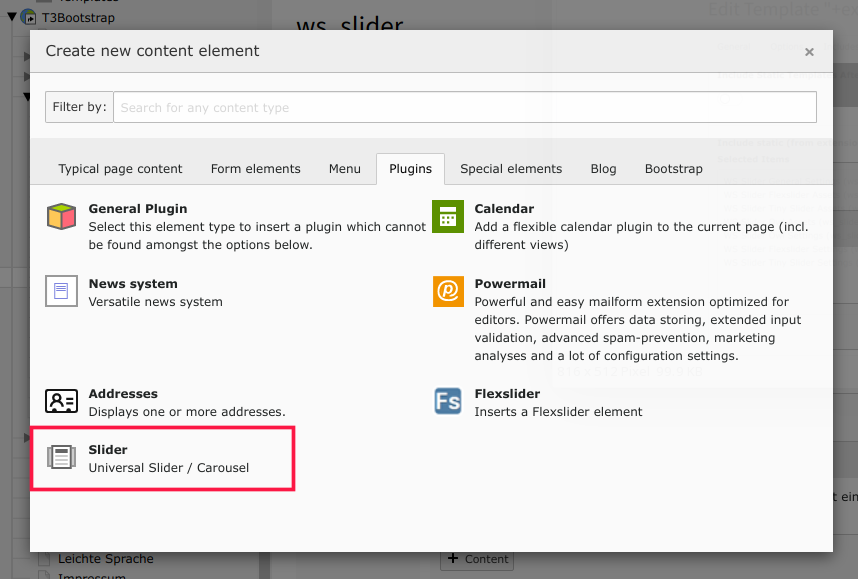
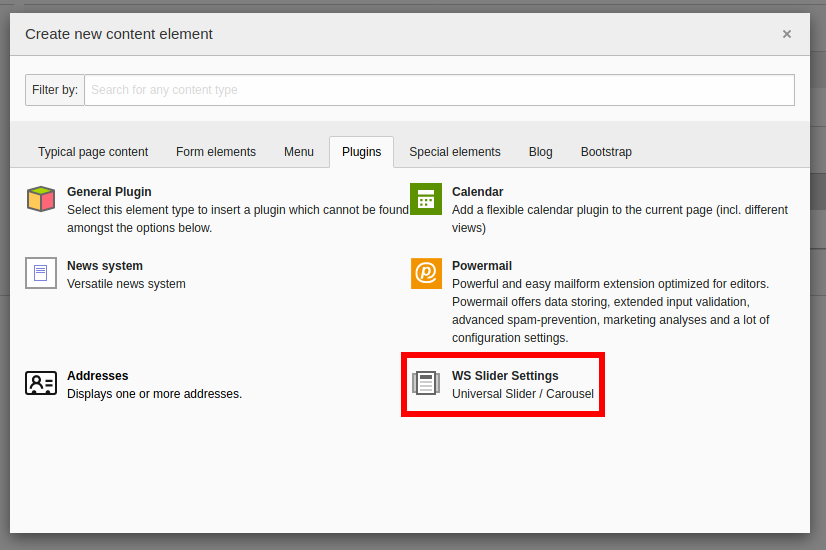
added more content to the typo3 documentation

Changed region(s): [[0.0, 0.0, 1.0, 1.0], [0.4843, 0.4636, 0.9383, 0.7727]]

diff --git a/Documentation/Installation/Index.rst b/Documentation/Installation/Index.rst
@@ -18,10 +18,45 @@ Installation
 Configuration
 -------------
 
-To enable the sliders for editors, you have to add them to the page properties in the TSconfig settings. You can decide which slider or layout you want to add.
+To enable the sliders for editors, you have to add them to the page properties in the TSconfig settings. You can decide which slider or layout you want to add. To do this:
+
+1. Go to `List` in your TYPO3 Backend's side menu.
+2. Select `YOUR PAGE` in the page hierarchy.
+3. Select the `edit page properties` button at the top.
+4. Navigate to the `Resources` tab and add the items for the sliders you need in the `Page TSconfig` section as shown in the image below.
+
 
 |TSconfigIncludes|
 
-Add the template of the extension to your main template.
+Add the template of the extension to your main template by:
+
+1. Going to `List` in your TYPO3 Backend's side menu.
+2. Select `YOUR PAGE` in the page hierarchy.
+3. Add a new template called `+ext` with the top plus symbol.
+4. Edit the template.
+5. Go the `Includes` tab and add the items for the sliders you need ad shown in the image below.
 
 |TemplateIncludes|
+
+Adding Content
+--------------
+
+Select which slider you want to use and add slider elements. In each slider element you can set an image source.
+
+|Elements|
+
+Slider Settings
+---------------
+
+Within the `Settings` tab when editing your content element you can find settings for the specific slider you have selected.
+Here is an example for the Owl slider. Each setting has a default value, if you want to change a setting you can select the checkbox and set the specific value.
+
+|OwlSettings|
+
+These settings are built after the respective endpoints the sliders offer.
+The respective Documentation that we used can be found here:
+
+* Owl `<https://owlcarousel2.github.io/OwlCarousel2/docs/api-options.html>`_
+* FlexSlider `<https://github.com/woocommerce/FlexSlider/wiki/FlexSlider-Properties>`_
+* TinySlider `<https://ganlanyuan.github.io/tiny-slider/#options>`_
+* Slick `<https://kenwheeler.github.io/slick/>`_

diff --git a/Documentation/Introduction/Index.rst b/Documentation/Introduction/Index.rst
@@ -11,20 +11,23 @@
 Introduction
 ============
 
+** Check out the demo **
+
+Online Demo:
+`https://demo10.t3bootstrap.de/de/extensions/ws-slider/ <https://demo10.t3bootstrap.de/de/extensions/ws-slider/>`_
+
 **Highlight**
 
 Each slider comes with its own backend settings and template constants. The template constants can be set globally,
 which can make the editor's work easier when using many sliders. However, the editor has the possibility to override
 these settings via the element settings. In each setting the editor can see how the constants have been set.
+The entire extension is available in both english and german (the language of your TYPO3 instance dictates the extensions language).
 
 Screenshots
 ___________
 
+Here is an example of the backend settings belonging to the Owl slider. Information on how to install and configure WS Slider can be found on the following pages.
 |OwlSettings|
 
-|Elements|
-
-Online Demo:
-`https://demo10.t3bootstrap.de/de/extensions/ws-slider/ <https://demo10.t3bootstrap.de/de/extensions/ws-slider/>`_
 
 

diff --git a/Documentation/Editor/Index.rst b/Documentation/Editor/Index.rst
@@ -10,6 +10,11 @@
 
 Editor
 ======
+You can add a new WS Slider content element when editing your page by:
+
+1. Adding a new content element.
+2. Navigating to the `Plugins` tab.
+3. Selecting `WS Slider Settings` as shown in the image below.
 
 |ImageCreateNewSlider|
 
